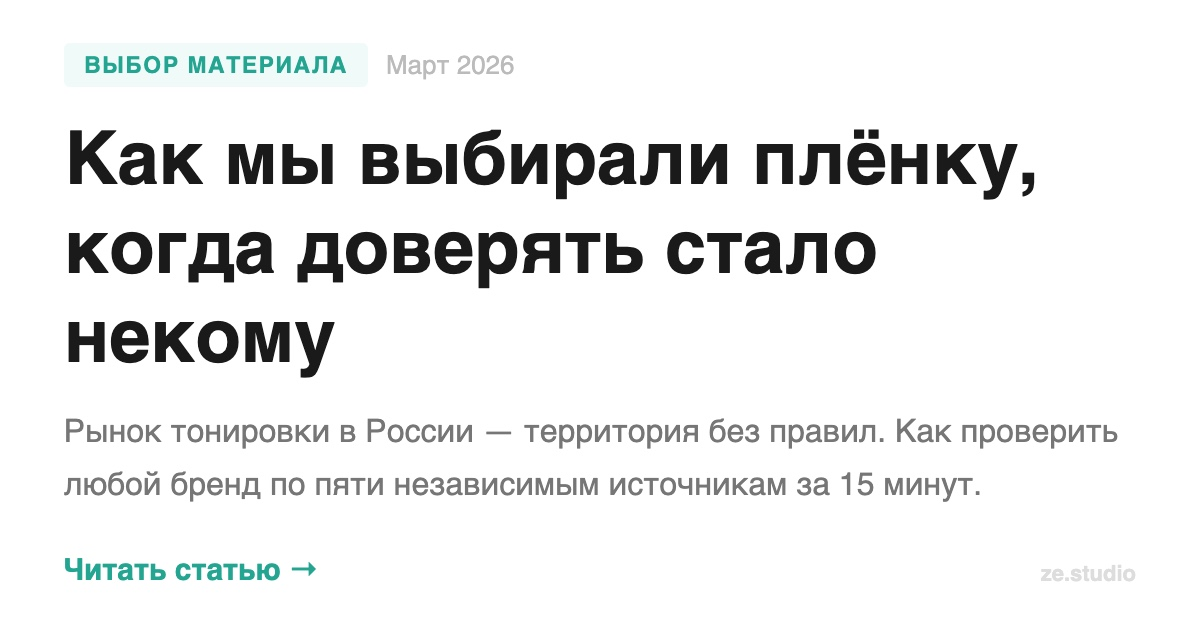
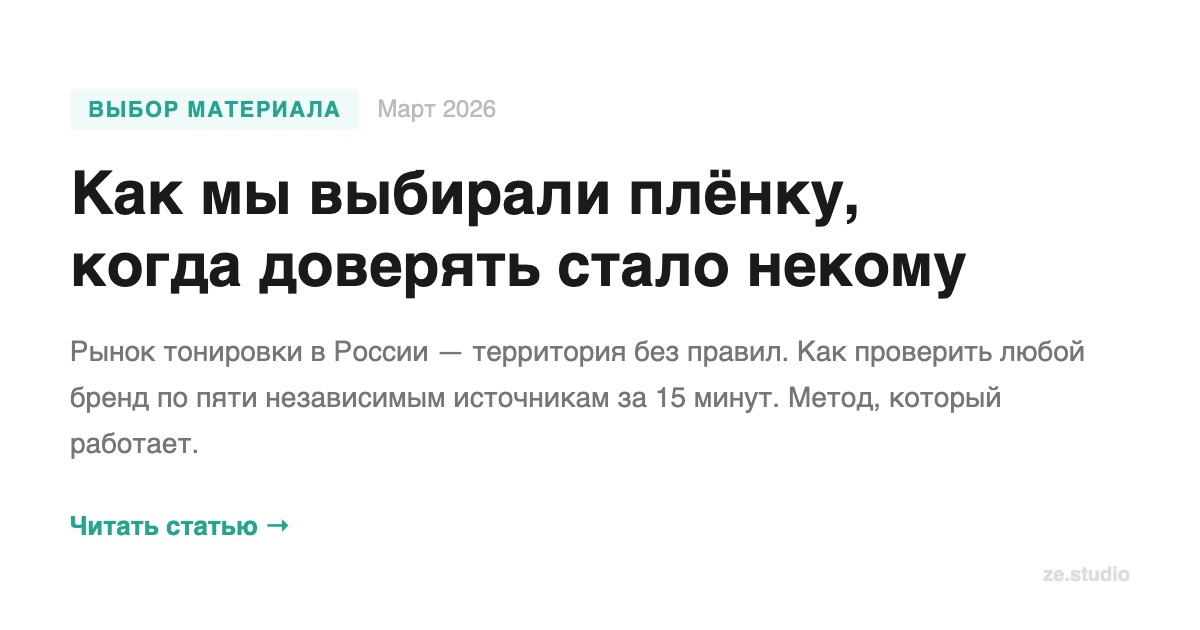
OG: шрифт 700, правильные пропорции, полный текст, og:description исправлен

diff --git a/blog/doverie.html b/blog/doverie.html
@@ -11,15 +11,15 @@
 
   <meta property="og:type" content="article">
   <meta property="og:title" content="Как мы выбирали плёнку, когда доверять стало некому">
-  <meta property="og:description" content="Как выбрать плёнку для тонировки, когда рынок без правил. 5 способов проверить любой бренд за 15 минут: сертификации, патенты, международное присутствие.">
+  <meta property="og:description" content="5 способов проверить любой бренд за 15 минут: сертификации, патенты, международное присутствие — метод, который работает.">
   <meta property="og:url" content="https://ze-studio48.ru/blog/doverie">
   <meta property="og:site_name" content="ze.studio">
   <meta property="og:locale" content="ru_RU">
-  <meta property="og:image" content="https://ze-studio48.ru/img/og-proverka.jpg?v=2">
+  <meta property="og:image" content="https://ze-studio48.ru/img/og-proverka.jpg?v=3">
   <meta property="og:image:width" content="1200">
   <meta property="og:image:height" content="630">
   <meta name="twitter:card" content="summary_large_image">
-  <meta name="twitter:image" content="https://ze-studio48.ru/img/og-proverka.jpg?v=2">
+  <meta name="twitter:image" content="https://ze-studio48.ru/img/og-proverka.jpg?v=3">
   <meta property="article:published_time" content="2026-03-31">
 
   <link rel="canonical" href="https://ze-studio48.ru/blog/doverie">
